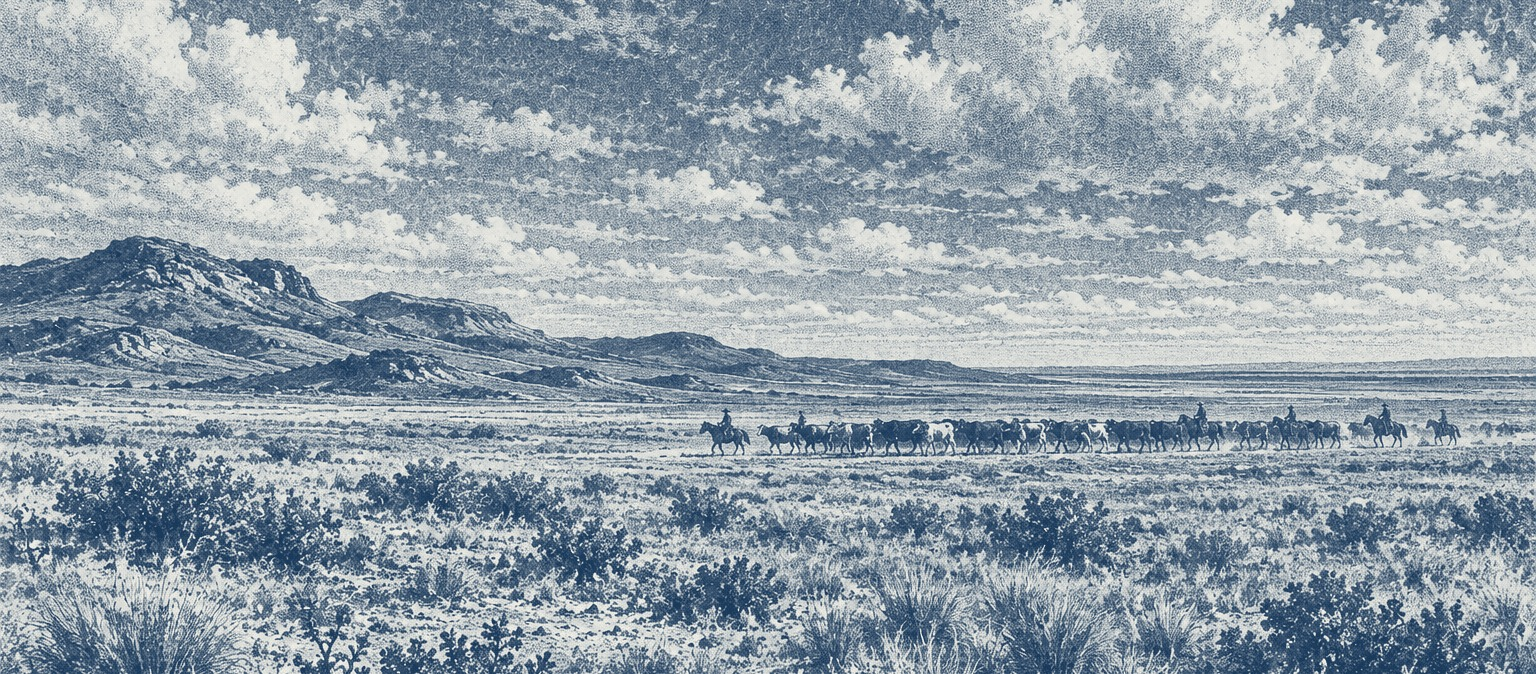
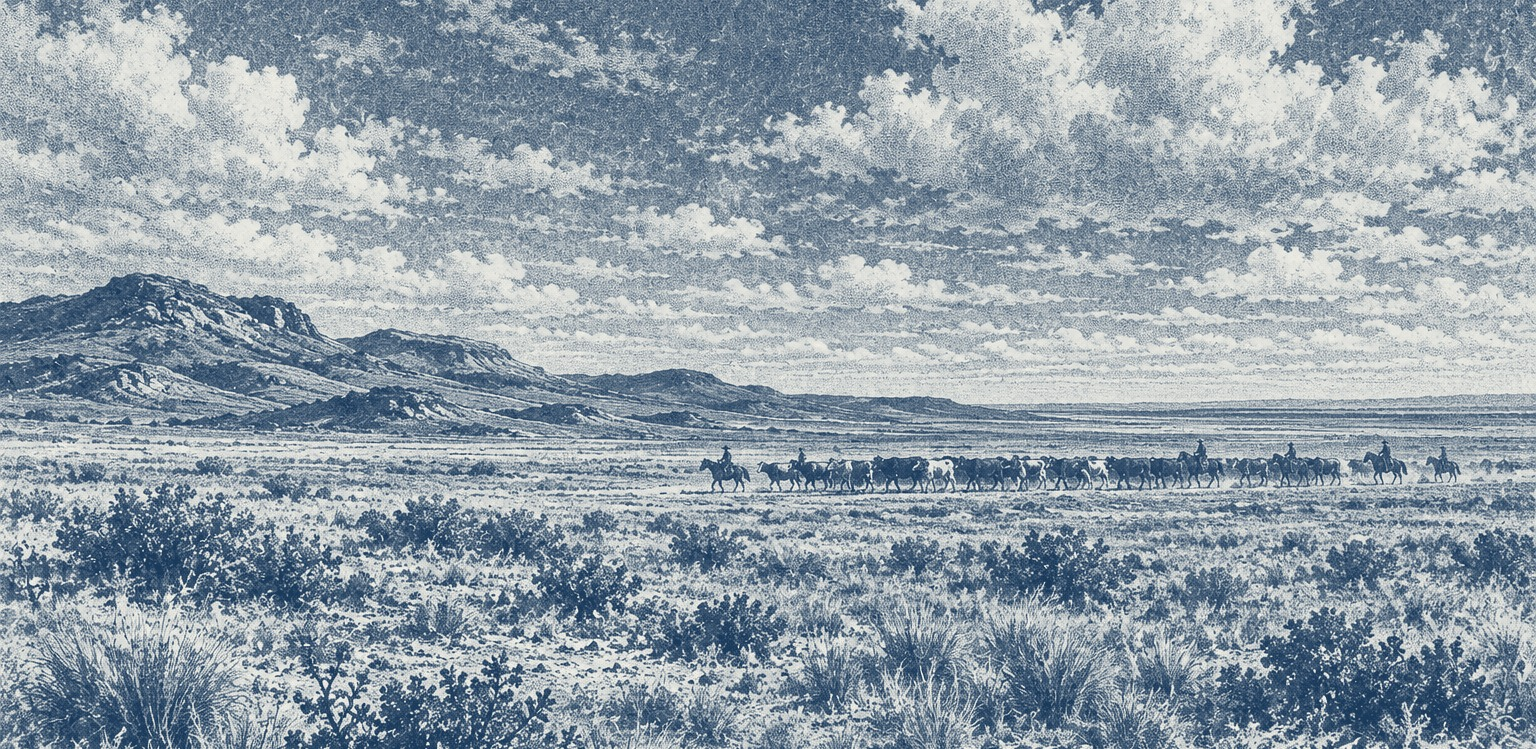
052-055: dobles recompuestas y alineadas

diff --git a/index.html b/index.html
@@ -5,23 +5,23 @@
 <meta charset="utf-8">
 <meta name="viewport" content="width=1280">
 <title>Darwin en la Argentina — libro</title>
-<link rel="stylesheet" href="styles/tokens.css?v=c4104a54">
-<link rel="stylesheet" href="styles/typography.css?v=c4104a54">
-<link rel="stylesheet" href="styles/grid.css?v=c4104a54">
-<link rel="stylesheet" href="styles/components.css?v=c4104a54">
-<link rel="stylesheet" href="styles/pages.css?v=c4104a54">
-<link rel="stylesheet" href="styles/maps.css?v=c4104a54">
-<link rel="stylesheet" href="styles/paradas.css?v=c4104a54">
-<link rel="stylesheet" href="styles/registros.css?v=c4104a54">
-<link rel="stylesheet" href="styles/tramo-03.css?v=c4104a54">
-<link rel="stylesheet" href="styles/tramo-04-05.css?v=c4104a54">
-<link rel="stylesheet" href="styles/tramo-05-07.css?v=c4104a54">
-<link rel="stylesheet" href="styles/tramo-07-10.css?v=c4104a54">
-<link rel="stylesheet" href="styles/tramo-10-15.css?v=c4104a54">
-<link rel="stylesheet" href="styles/fotos.css?v=c4104a54">
-<link rel="stylesheet" href="tapa/tapa.css?v=c4104a54">
-<link rel="stylesheet" href="styles/medida.css?v=c4104a54">
-<link rel="stylesheet" href="styles/print.css?v=c4104a54">
+<link rel="stylesheet" href="styles/tokens.css?v=603a4015">
+<link rel="stylesheet" href="styles/typography.css?v=603a4015">
+<link rel="stylesheet" href="styles/grid.css?v=603a4015">
+<link rel="stylesheet" href="styles/components.css?v=603a4015">
+<link rel="stylesheet" href="styles/pages.css?v=603a4015">
+<link rel="stylesheet" href="styles/maps.css?v=603a4015">
+<link rel="stylesheet" href="styles/paradas.css?v=603a4015">
+<link rel="stylesheet" href="styles/registros.css?v=603a4015">
+<link rel="stylesheet" href="styles/tramo-03.css?v=603a4015">
+<link rel="stylesheet" href="styles/tramo-04-05.css?v=603a4015">
+<link rel="stylesheet" href="styles/tramo-05-07.css?v=603a4015">
+<link rel="stylesheet" href="styles/tramo-07-10.css?v=603a4015">
+<link rel="stylesheet" href="styles/tramo-10-15.css?v=603a4015">
+<link rel="stylesheet" href="styles/fotos.css?v=603a4015">
+<link rel="stylesheet" href="tapa/tapa.css?v=603a4015">
+<link rel="stylesheet" href="styles/medida.css?v=603a4015">
+<link rel="stylesheet" href="styles/print.css?v=603a4015">
 </head>
 <body>
 <div class="spread"><div class="slot--empty"></div><section class="page page--cover page--right front" id="ptapa">
@@ -1453,7 +1453,7 @@
     <p class="p052__meta stopline t-meta"><b>07</b> 11–19 sep. 1833</p>
     <h1 class="p052__title t-opening">Travesía de<br>las Pampas</h1>
     <p class="p052__text t-darwin body">11 de septiembre.—Hemos emprendido el camino para la tercera posta en compañía del teniente que la mandaba. Dijeron que la distancia era de 15 leguas, pero es sólo a ojo y generalmente exagerada. El camino careció de interés y cruzó una llanura seca y herbosa; a nuestra izquierda, a mayor o menor distancia, había algunos cerros de poca altura, y pasados éstos nos encontramos muy cerca de la posta. Antes de nuestra llegada tropezamos con un gran rebaño de vacas y caballos guardado por 15 soldados, pero nos dijeron que se habían perdido muchos.</p>
-    <div class="p052__image foto" style="background-image:url(assets/images/052-llanura-rebano.jpg?v=40970e9f)" role="img" aria-label="llanura seca y herbosa, cerros bajos a la izquierda, rebaño de vacas y caballos a lo lejos con jinetes"></div>
+    <div class="p052__image foto" style="background-image:url(assets/images/052-llanura-rebano.jpg?v=31727926)" role="img" aria-label="llanura seca y herbosa, cerros bajos a la izquierda, rebaño de vacas y caballos a lo lejos con jinetes"></div>
 
     <svg class="p052__line diagram" viewBox="0 0 188 22.5" aria-hidden="true">
       <path class="route--land" d="M3 6H168.2"/>
@@ -1500,25 +1500,26 @@
 <div class="spread"><!-- 054 · Entrar en la Pampa húmeda — fuente: Darwin_textos_para_maquetar_v2.pdf, entrada 053.
      Cotejo con la capa de texto del escaneo (págs. 161–162 del libro): coincide. «hacía el Norte» (con tilde) figura así en el
      reconocimiento y en el v2: se deja y queda para el cotejo visual. «Tapalguen» como en la edición.
-     Esquema: solo los datos del fragmento; sin escala. -->
+     Esquema: solo los datos del fragmento; sin escala.
+     12 oct. 2026: el esquema se alarga (líneas 6–25) para acompañar al texto; su nota ED termina con él (28). -->
 <section class="page page--left" id="p054" data-page="054" data-section="07 Travesía de las Pampas" lang="es">
   <div class="page__box">
     <h1 class="p054__title t-pagetitle">Entrar en la Pampa húmeda</h1>
     <p class="p054__text t-darwin body">14 de septiembre.—En vista de que los soldados pertenecientes a la posta inmediata pensaban regresar, y de que formábamos una partida de cinco, y todos armados, resolví no aguardar a las tropas que se esperaban. Mi patrón de hospedaje, el teniente del puesto, me instó a detenerme. Yo le estaba obligadísimo, no sólo por haberme dado de comer, sino también por haberme prestado sus propios caballos; y, por tanto, quería corresponderle con alguna remuneración. Pregunté a mi guía si estaría bien que lo hiciera, pero me respondió que no, añadiendo que probablemente mi oferta sería rechazada con estas palabras: «En nuestro país tenemos carne para los perros, y por consiguiente no se la regateamos a ningún cristiano.» No debe suponerse que la categoría de teniente en un ejército de tal índole fuera causa de negarse a aceptar el pago; lo hubiera hecho así movido sólo por un sentimiento de generosa hospitalidad, que todo viajero ha de reconocer en todas estas provincias, donde dicho sentimiento se halla extendido universalmente. Después de galopar algunas leguas llegamos a una región baja y pantanosa, que se extiende, próximamente unos 128 kilómetros hacía el Norte, hasta la Sierra Tapalguen. En algunas partes hay hermosas llanuras húmedas, cubiertas de hierba, mientras otras tienen un suelo negro y turboso.</p>
 
-    <svg class="p054__region diagram" viewBox="0 0 92.34 58.5" aria-hidden="true">
+    <svg class="p054__region diagram" viewBox="0 0 92.34 90" aria-hidden="true">
       <defs><pattern id="p053-hierba" width="1.6" height="3" patternUnits="userSpaceOnUse"><path d="M0.8 0.4V2.4" class="diagram__ring"/></pattern></defs>
-      <path class="route--land" d="M12 9.2V50"/>
+      <path class="route--land" d="M12 9.2V81.5"/>
       <path class="diagram__line" d="M10.8 11.4L12 9.2L13.2 11.4"/>
       <circle class="diagram__ring2" cx="12" cy="8" r="1.1"/>
-      <circle class="route__dot" cx="12" cy="51.2" r="1.1"/>
+      <circle class="route__dot" cx="12" cy="82.7" r="1.1"/>
       <text class="diagram__label" x="12" y="4.4" text-anchor="middle">N</text>
-      <text class="t-datum" x="18" y="24">128 km</text>
-      <rect x="18" y="32" width="14" height="6" fill="url(#p053-hierba)"/>
-      <rect class="diagram__sea" x="18" y="41" width="14" height="6"/>
-      <path class="diagram__line" d="M18 32H32V38H18Z"/>
-      <g class="diagram__label diagram__label--strong"><text x="18" y="8.9">Sierra Tapalguen</text><text x="18" y="52.1">Región baja y pantanosa</text></g>
-      <g class="diagram__label"><text x="18" y="27.6">«próximamente», hacia el Norte</text><text x="34.5" y="35.9">Llanuras húmedas, cubiertas de hierba</text><text x="34.5" y="44.9">Suelo negro y turboso</text><text x="18" y="55.3">después de «galopar algunas leguas»</text></g>
+      <text class="t-datum" x="18" y="36">128 km</text>
+      <rect x="18" y="48" width="14" height="6" fill="url(#p053-hierba)"/>
+      <rect class="diagram__sea" x="18" y="59" width="14" height="6"/>
+      <path class="diagram__line" d="M18 48H32V54H18Z"/>
+      <g class="diagram__label diagram__label--strong"><text x="18" y="8.9">Sierra Tapalguen</text><text x="18" y="83.6">Región baja y pantanosa</text></g>
+      <g class="diagram__label"><text x="18" y="39.6">«próximamente», hacia el Norte</text><text x="34.5" y="51.9">Llanuras húmedas, cubiertas de hierba</text><text x="34.5" y="62.9">Suelo negro y turboso</text><text x="18" y="86.8">después de «galopar algunas leguas»</text></g>
     </svg>
     <p class="p054__caption t-data"><span class="notetag notetag--ed">ED</span>La región que empieza aquí, con los datos del fragmento. Esquema sin escala.</p>
   </div>

diff --git a/pages/054.html b/pages/054.html
@@ -1,25 +1,26 @@
 <!-- 054 · Entrar en la Pampa húmeda — fuente: Darwin_textos_para_maquetar_v2.pdf, entrada 053.
      Cotejo con la capa de texto del escaneo (págs. 161–162 del libro): coincide. «hacía el Norte» (con tilde) figura así en el
      reconocimiento y en el v2: se deja y queda para el cotejo visual. «Tapalguen» como en la edición.
-     Esquema: solo los datos del fragmento; sin escala. -->
+     Esquema: solo los datos del fragmento; sin escala.
+     12 oct. 2026: el esquema se alarga (líneas 6–25) para acompañar al texto; su nota ED termina con él (28). -->
 <section class="page" data-page="054" data-section="07 Travesía de las Pampas" lang="es">
   <div class="page__box">
     <h1 class="p054__title t-pagetitle">Entrar en la Pampa húmeda</h1>
     <p class="p054__text t-darwin body">14 de septiembre.—En vista de que los soldados pertenecientes a la posta inmediata pensaban regresar, y de que formábamos una partida de cinco, y todos armados, resolví no aguardar a las tropas que se esperaban. Mi patrón de hospedaje, el teniente del puesto, me instó a detenerme. Yo le estaba obligadísimo, no sólo por haberme dado de comer, sino también por haberme prestado sus propios caballos; y, por tanto, quería corresponderle con alguna remuneración. Pregunté a mi guía si estaría bien que lo hiciera, pero me respondió que no, añadiendo que probablemente mi oferta sería rechazada con estas palabras: «En nuestro país tenemos carne para los perros, y por consiguiente no se la regateamos a ningún cristiano.» No debe suponerse que la categoría de teniente en un ejército de tal índole fuera causa de negarse a aceptar el pago; lo hubiera hecho así movido sólo por un sentimiento de generosa hospitalidad, que todo viajero ha de reconocer en todas estas provincias, donde dicho sentimiento se halla extendido universalmente. Después de galopar algunas leguas llegamos a una región baja y pantanosa, que se extiende, próximamente unos 128 kilómetros hacía el Norte, hasta la Sierra Tapalguen. En algunas partes hay hermosas llanuras húmedas, cubiertas de hierba, mientras otras tienen un suelo negro y turboso.</p>
 
-    <svg class="p054__region diagram" viewBox="0 0 92.34 58.5" aria-hidden="true">
+    <svg class="p054__region diagram" viewBox="0 0 92.34 90" aria-hidden="true">
       <defs><pattern id="p053-hierba" width="1.6" height="3" patternUnits="userSpaceOnUse"><path d="M0.8 0.4V2.4" class="diagram__ring"/></pattern></defs>
-      <path class="route--land" d="M12 9.2V50"/>
+      <path class="route--land" d="M12 9.2V81.5"/>
       <path class="diagram__line" d="M10.8 11.4L12 9.2L13.2 11.4"/>
       <circle class="diagram__ring2" cx="12" cy="8" r="1.1"/>
-      <circle class="route__dot" cx="12" cy="51.2" r="1.1"/>
+      <circle class="route__dot" cx="12" cy="82.7" r="1.1"/>
       <text class="diagram__label" x="12" y="4.4" text-anchor="middle">N</text>
-      <text class="t-datum" x="18" y="24">128 km</text>
-      <rect x="18" y="32" width="14" height="6" fill="url(#p053-hierba)"/>
-      <rect class="diagram__sea" x="18" y="41" width="14" height="6"/>
-      <path class="diagram__line" d="M18 32H32V38H18Z"/>
-      <g class="diagram__label diagram__label--strong"><text x="18" y="8.9">Sierra Tapalguen</text><text x="18" y="52.1">Región baja y pantanosa</text></g>
-      <g class="diagram__label"><text x="18" y="27.6">«próximamente», hacia el Norte</text><text x="34.5" y="35.9">Llanuras húmedas, cubiertas de hierba</text><text x="34.5" y="44.9">Suelo negro y turboso</text><text x="18" y="55.3">después de «galopar algunas leguas»</text></g>
+      <text class="t-datum" x="18" y="36">128 km</text>
+      <rect x="18" y="48" width="14" height="6" fill="url(#p053-hierba)"/>
+      <rect class="diagram__sea" x="18" y="59" width="14" height="6"/>
+      <path class="diagram__line" d="M18 48H32V54H18Z"/>
+      <g class="diagram__label diagram__label--strong"><text x="18" y="8.9">Sierra Tapalguen</text><text x="18" y="83.6">Región baja y pantanosa</text></g>
+      <g class="diagram__label"><text x="18" y="39.6">«próximamente», hacia el Norte</text><text x="34.5" y="51.9">Llanuras húmedas, cubiertas de hierba</text><text x="34.5" y="62.9">Suelo negro y turboso</text><text x="18" y="86.8">después de «galopar algunas leguas»</text></g>
     </svg>
     <p class="p054__caption t-data"><span class="notetag notetag--ed">ED</span>La región que empieza aquí, con los datos del fragmento. Esquema sin escala.</p>
   </div>

diff --git a/styles/medida.css b/styles/medida.css
@@ -150,3 +150,18 @@
 .p051__route { grid-column: 1 / 7; grid-row: 24 / 28; }
 .p051__note-e { grid-row: 28; }
 .p051__caption { grid-row: 28; }
+
+/* ── 052–055 ── recomposición del 12 oct. 2026 (misma información) */
+/* 052: la imagen termina con el texto (línea 20). 053: texto, esquema y nota bajan una línea: cierran en la 28, como 052 */
+.p052__image { grid-row: 11 / 21; }
+.p053__text { grid-row: 15 / 29; }
+.p053__scene { grid-row: 20 / 26; }
+.p053__caption { grid-row: 27 / 29; align-self: end; }
+/* 054: el esquema, más alto, acompaña al texto; su nota ED termina con él (línea 28) */
+.p054__region { grid-row: 6 / 26; }
+.p054__caption { grid-row: 27 / 29; align-self: end; }
+/* 055: los tres números van apilados junto al texto, de la línea 7 a la 19 (donde termina el texto);
+   cada uno se apoya en su filete */
+.p055__data { grid-row: 7 / 20; grid-template-columns: 1fr; grid-template-rows: repeat(3, 1fr); }
+.p055__data > div { display: grid; grid-template-columns: calc((100% - 2 * var(--column-gap)) / 3 + var(--column-gap)) 1fr; align-content: end; align-items: baseline; box-shadow: inset 0 calc(var(--rule-fine) * -1) 0 var(--blue-deep); padding-top: 0; padding-bottom: 0.7mm; }
+.p055__data { transform: translateY(1.3mm); }

diff --git a/tools/fotos.py b/tools/fotos.py
@@ -33,7 +33,7 @@ FOTOS = [
     ('045', 'llanos', 92.3, 49.5, 'c', .5, .5, .35),
     ('048', 'vivac', 210, 64, 'c', .5, .56, 0),
     ('051', 'horizonte-sierra', 92.3, 72, 'c', .4, .45, 0),
-    ('052', 'llanura-rebano', 92.3, 40.5, 'c', .5, .50, 0),
+    ('052', 'llanura-rebano', 92.3, 45, 'c', .5, .50, 0),
     ('053', 'fogon', 210, 59.5, 'c', .5, .50, 0),
     ('055', 'hogueras', 188, 36, 'c', .5, .52, 0),
     ('063', 'plaza-buenos-aires', 92.3, 40.5, 'c', .5, .40, 0),

diff --git a/BOOK_PROGRESS.md b/BOOK_PROGRESS.md
@@ -508,3 +508,4 @@ Se reemplazaron los 39 recuadros de imagen pendiente por ilustraciones generadas
 - 2026-10-12 · 042–043 recompuestas a la par (trabajo autónomo, misma información). 042: la lámina del Scelidotherium sube a la derecha del texto (columnas 4–6, líneas 7–13: empieza y termina con el texto); el esquema de la grava se redibuja apaisado en franja a todo el ancho (líneas 19–26, viewBox 188 × 36, mismos elementos y rótulos), igual que la franja del tiempo de 043; nota ED al pie (27–28) como la de 043. 043: la nota D baja a la última línea del texto (15). Cambió el HTML de 042 (SVG): re-aprobada; 043 solo CSS.
 - 2026-10-12 · 044–047 revisadas y recompuestas (trabajo autónomo, misma información; solo CSS e imagen, las cuatro siguen bloqueadas). 044: Megatherium más grande (ancho completo de las columnas 1–3, líneas 9–22) y notas al pie de la columna: D en 24–26, ED en la 28, donde termina el texto. 045: la pregunta baja a las líneas 8–11 y el texto a 15–28 para terminar como el de 044; la imagen empieza con el texto (15–25, recorte 92,3 × 49,5 mm) y la nota ED termina con él (27–28). 046: sin cambios. 047: el texto baja una línea (8–21) y termina como el de 046; notas y medidas pasan a la banda 24–28, la misma de la franja y la nota ED de 046.
 - 2026-10-12 · 048–051 revisadas y recompuestas (trabajo autónomo, misma información). 048: texto en 20–25 y nota ED en 24–25, terminan juntos. 049: el corte sube a 16–23 y su nota ED a la 25, a la par del cierre de 048. 050: el esquema de los picos crece (viewBox 92,34 × 67,5; líneas 7–21) y su nota ED termina con el texto (25); las tres rocas pasan a una banda al pie, en fila (rótulo 27, lista 28). 051: la imagen empieza y termina con el texto (7–22; recorte 92,3 × 72 mm, foco a la izquierda, 361 ppp); el esquema del regreso pasa a franja a todo el ancho (24–27, viewBox 188 × 18) y las notas E y ED a la línea 28. tools/fragmentos.py: coordenadas del fragmento «montaña» de 005 adaptadas al nuevo recorte (no se regeneró 005). Cambió el HTML de 050 y 051 (SVG): re-aprobadas; 048 y 049 solo CSS.
+- 2026-10-12 · 052–055 revisadas y recompuestas (trabajo autónomo, misma información). 052: la imagen termina con el texto (línea 20; recorte 92,3 × 45 mm). 053: texto, esquema y nota bajan una línea y cierran en la 28, como 052; la primera línea del texto queda en la línea de base del título. 054: el esquema de la región se alarga (viewBox 92,34 × 90; líneas 6–25) y su nota ED termina con el texto (28). 055: los tres números pasan de fila a columna, apilados junto al texto (líneas 7–19), cada uno apoyado en su filete; el último queda en el renglón final del texto. Cambió el HTML de 054 (SVG): re-aprobada; el resto solo CSS e imagen.
